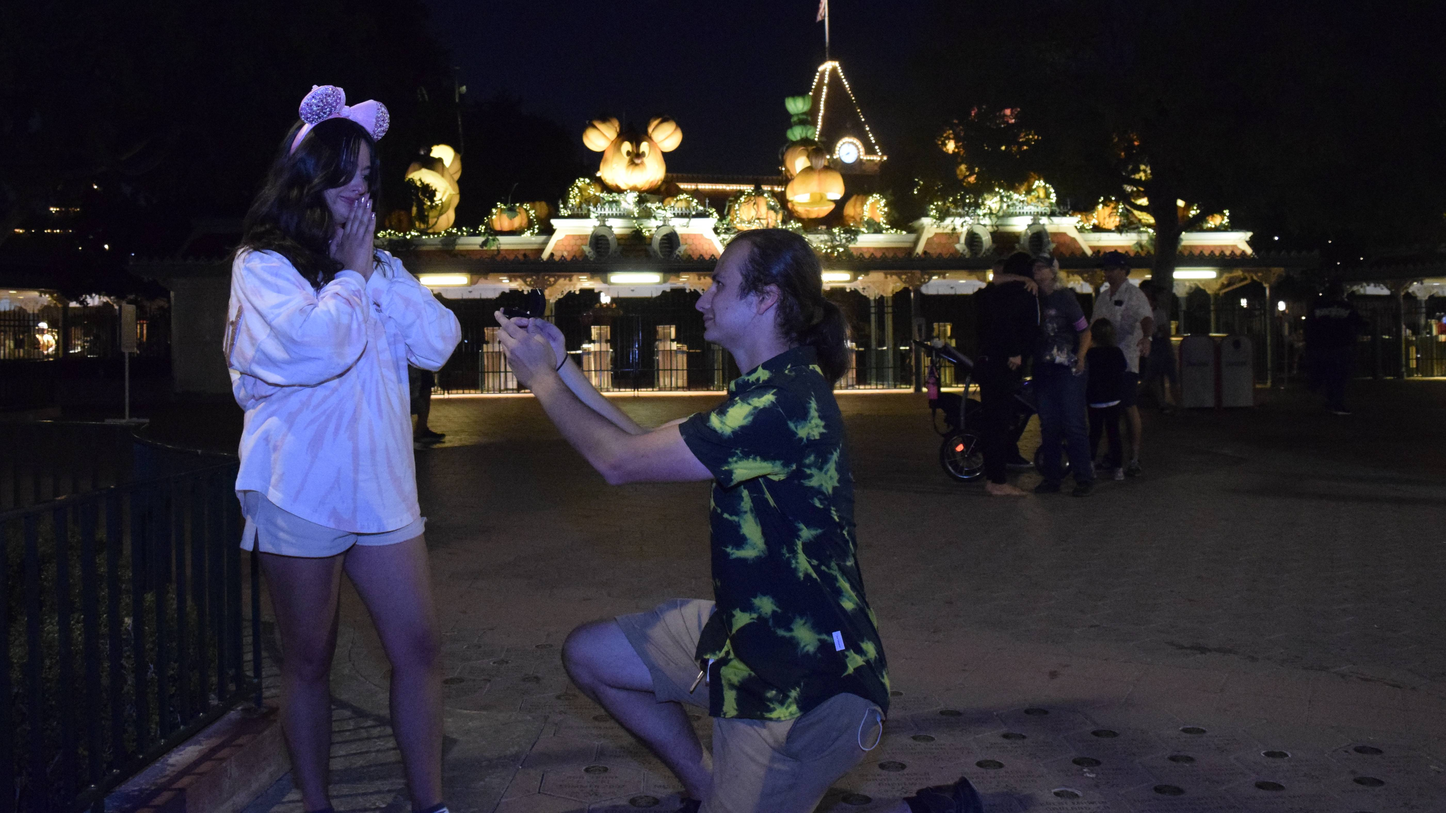
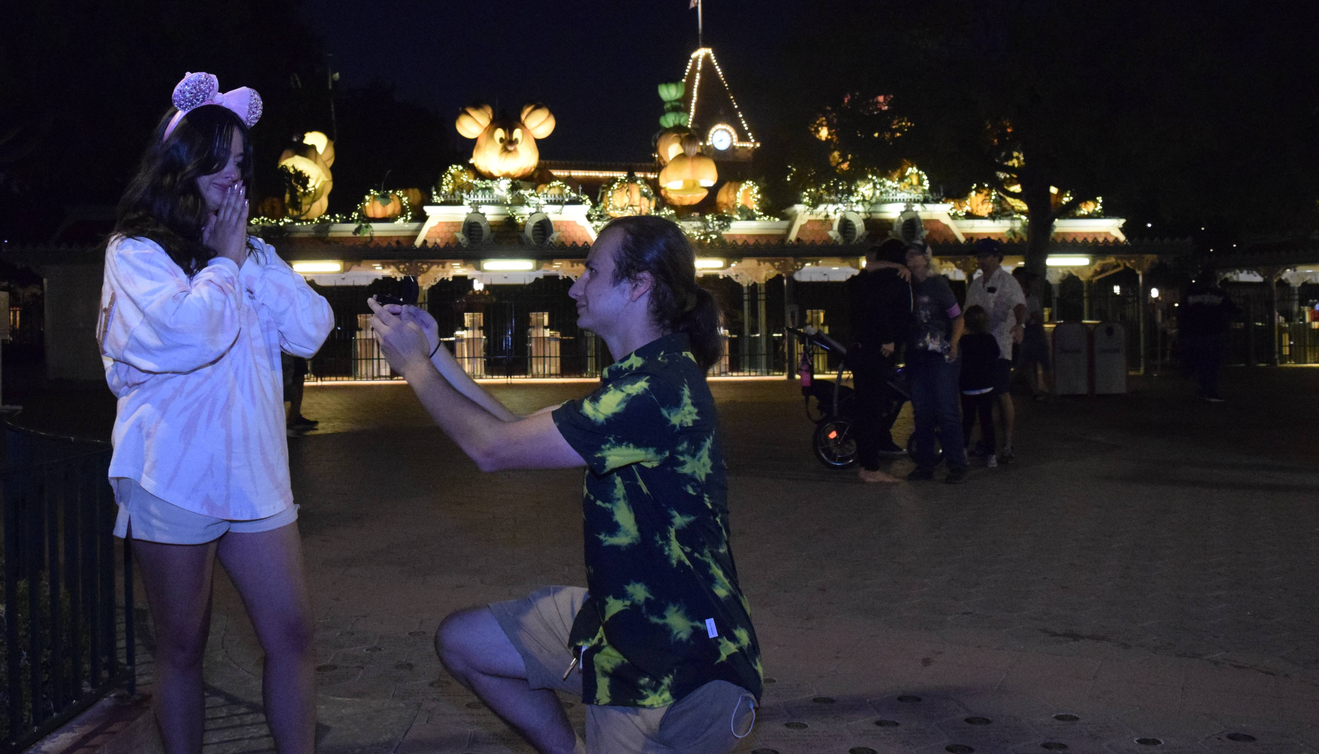
resize picture, and change display of clock to inline-block
note: a future idea for a change would be to place the image in an img tag rather than the background as that would give you more fine control over how it displays

diff --git a/src/components/css/Header.css b/src/components/css/Header.css
@@ -1,3 +1,7 @@
+@import url('https://fonts.googleapis.com/css2?family=Dancing+Script&display=swap');
+
+
+
 h1, p {
   margin: 0;
 }
@@ -11,12 +15,13 @@ h1, p {
 }
 
 .header {
+  text-align: right;
   height: 100vh;
   width: 100vw;
   background-image: url("../../images/proposal_knee_wide.jpg");
   background-repeat: no-repeat;
-  background-position: left;
-  background-size: contain;
+  background-position: bottom left;
+  background-size: cover;
 }
 
 .countdown {
@@ -24,19 +29,17 @@ text-align: right;
 font-size: 90%;
 }
 .clock-card {
-  position: absolute;
-  left: 89vw;
+  display: inline-block;
   text-align: left;
   background-color: var(--ch-maroon);
-  padding: 1rem 0 5rem 1rem;
+  padding: 1rem 1rem 2rem 1rem;
 }
 
 .text-card {
-  margin-top: 30vh;
   display: inline-block;
   text-align: right;
   background: var(--ch-maroon);
-  padding: 3rem 6rem 4rem 3rem;
+  padding: 3rem 1rem 4rem 2rem;
   border-radius: 30% 0 0 20%;
   float: right;
   max-width: 40vw;

diff --git a/src/components/Header.js b/src/components/Header.js
@@ -52,7 +52,7 @@ function Header() {
               <p>September 16, 2023</p>
             </div>
             <div className="rsvp">
-              <h3>RSVP ↓</h3>
+              <h3>Info ↓</h3>
             </div>
           </div>
         </div>
